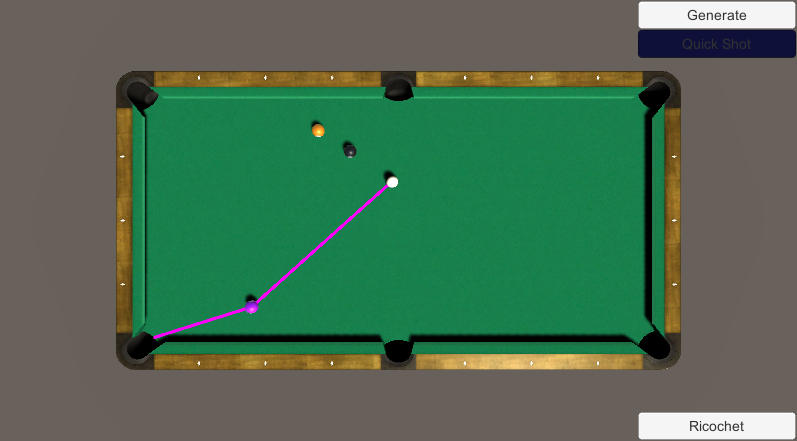
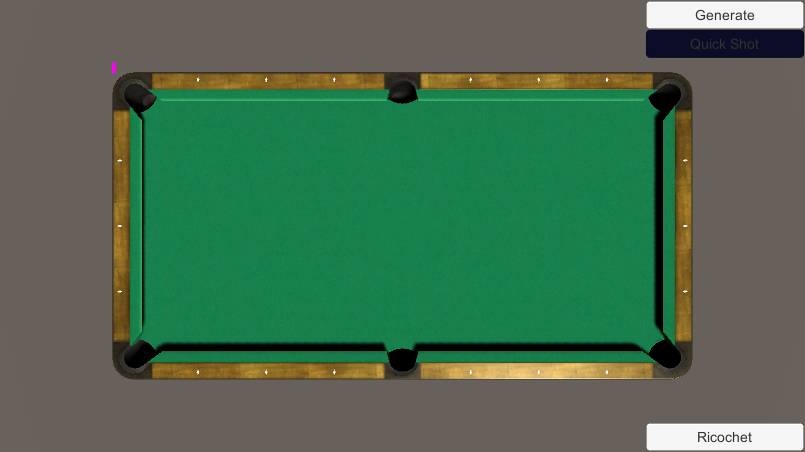
Incorporated an updated Ricochet shot
Determines if a shot is possible to make in a straight path, asks to
select something else

diff --git a/Assets/Pool Billiard Table/Scripts/Quick_Shot.cs b/Assets/Pool Billiard Table/Scripts/Quick_Shot.cs
@@ -28,6 +28,69 @@ namespace TargetPath {
             this.valid_path = false;
         }
     }
+
+    public class Shot_Tools
+    {
+        public bool Measure_Collision(Vector3 ball, Vector3 destination)
+        {
+            RaycastHit collision; 
+            Physics.Linecast(ball, destination, out collision);
+            if (collision.transform.position == destination)
+            {
+                return true;
+            }
+            else
+            {
+                return false;
+            }
+        }
+
+        public void Draw_Path(Vector3 cue, Vector3 ball, Vector3 pocket)
+        {
+            GameObject line1 = new GameObject("line");
+            line1.tag = "Solution";
+            LineRenderer shot1 = line1.AddComponent<LineRenderer>();
+            shot1.SetWidth(0.3f, 0.3f);
+
+            GameObject line2 = new GameObject("line");
+            line2.tag = "Solution";
+            LineRenderer shot2 = line2.AddComponent<LineRenderer>();
+            shot2.SetWidth(0.3f, 0.3f);
+
+            Vector3[] coord1 = new Vector3[2] { cue, ball };
+            Vector3[] coord2 = new Vector3[2] { ball, pocket };
+            shot1.SetPositions(coord1);
+            shot2.SetPositions(coord2);
+        }
+
+        public bool Calculate_Angle_toPocket(Vector3 end, Vector3 start, Vector3 cue)
+        {
+
+            Shot_Tools path = new Shot_Tools();
+            Pocket optimal_pocket = new Pocket();
+            if (path.Measure_Collision(end, start))
+            {
+                // Look into direction of cue ball to solid
+                Vector3 start_trajectory = (cue - start).normalized;
+                Vector3 final_trajectory = (end - start).normalized;
+
+                //Determine if it's possible to make the shot. If within the angle threshold, it is a possible match for a shot
+                float angle = Vector3.Angle(final_trajectory, start_trajectory);
+                if (angle > 135.0f)
+                {
+                    return true;
+                }
+                else
+                {
+                    return false;
+                    //Create some cases for the bounce shot
+                }
+            }
+            //You must go around the obstruction
+            return false;
+        }
+
+    }
 }
 
 namespace TargetPath {
@@ -38,6 +101,7 @@ namespace TargetPath {
         GameObject[] balls;
         GameObject cue;
         RaycastHit collision;
+        Shot_Tools path;
         //LinkedList<Target> options;
         double best_weight = 100;
         //LineRenderer linerenderer;
@@ -49,7 +113,7 @@ namespace TargetPath {
             balls = GameObject.FindGameObjectsWithTag("Solid");
             pockets = GameObject.FindGameObjectsWithTag("Pocket");
             best_weight = 100;
-
+            path = new Shot_Tools();
         }
 
         // Update is called once per frame
@@ -62,13 +126,12 @@ namespace TargetPath {
         {
             Start();
             Clear();
-			ScreenShot();
+            //ScreenShot();
             Target Final_shot = new Target();
             foreach (GameObject ball in balls)
             {
                 Target target_path = new Target();
-                Physics.Linecast(cue.transform.position, ball.transform.position, out collision);
-                if (collision.transform.position == ball.transform.position)
+                if (path.Measure_Collision(cue.transform.position, ball.transform.position))
                 {
                     //Direction from cue to target ball
                     Vector3 ball_cue_trajectory = (cue.transform.position - ball.transform.position).normalized;
@@ -95,20 +158,7 @@ namespace TargetPath {
                     }
                 }
             }
-            GameObject line1 = new GameObject("line");
-            line1.tag = "Solution";
-            LineRenderer shot1 = line1.AddComponent<LineRenderer>();
-            shot1.SetWidth(0.3f, 0.3f);
-
-            GameObject line2 = new GameObject("line");
-            line2.tag = "Solution";
-            LineRenderer shot2 = line2.AddComponent<LineRenderer>();
-            shot2.SetWidth(0.3f, 0.3f);
-
-            Vector3[] coord1 = new Vector3[2] { cue.transform.position, Final_shot.position };
-            Vector3[] coord2 = new Vector3[2] { Final_shot.position, Final_shot.opt_pocket.position };
-            shot1.SetPositions(coord1);
-            shot2.SetPositions(coord2);
+            path.Draw_Path(cue.transform.position, Final_shot.position, Final_shot.opt_pocket.position);
 
         }
 
@@ -117,8 +167,7 @@ namespace TargetPath {
             Pocket optimal_pocket = new Pocket();
             foreach (GameObject pocket in pockets)
             {
-                Physics.Linecast(ball.transform.position, pocket.transform.position, out collision);
-                if (collision.transform.position == pocket.transform.position)
+                if (path.Measure_Collision(ball.transform.position, pocket.transform.position))
                 {
                     // Look into direction of cue ball to solid
                     Vector3 ball_pocket_trajectory = (pocket.transform.position - ball.transform.position).normalized;
@@ -139,7 +188,37 @@ namespace TargetPath {
             }
 
             return optimal_pocket;
+        }
 
+        public void Draw_Path(Vector3 cue, Vector3 ball, Vector3 pocket)
+        {
+            GameObject line1 = new GameObject("line");
+            line1.tag = "Solution";
+            LineRenderer shot1 = line1.AddComponent<LineRenderer>();
+            shot1.SetWidth(0.3f, 0.3f);
+
+            GameObject line2 = new GameObject("line");
+            line2.tag = "Solution";
+            LineRenderer shot2 = line2.AddComponent<LineRenderer>();
+            shot2.SetWidth(0.3f, 0.3f);
+
+            Vector3[] coord1 = new Vector3[2] { cue, ball };
+            Vector3[] coord2 = new Vector3[2] { ball, pocket };
+            shot1.SetPositions(coord1);
+            shot2.SetPositions(coord2);
+        }
+
+        public bool Measure_Collision(Vector3 ball, Vector3 destination)
+        {
+            Physics.Linecast(ball, destination, out collision);
+            if (collision.transform.position == destination)
+            {
+                return true;
+            }
+            else
+            {
+                return false;
+            }
         }
 
         public void Clear()

diff --git a/Assets/Pool Billiard Table/Scripts/Ricochet.cs b/Assets/Pool Billiard Table/Scripts/Ricochet.cs
@@ -24,58 +24,95 @@ namespace TargetPath
         // Update is called once per frame
         void Update()
         {
-            if(algo_start)
-            {
-                if (Input.GetMouseButtonDown(0))
-                {
-                    RaycastHit ball_select = new RaycastHit();
-                    if (Physics.Raycast(Camera.main.ScreenPointToRay(Input.mousePosition), out ball_select))
-                    {
-                        if (ball_select.transform.gameObject.CompareTag("Cue"))
-                        {
-                            print("Now choose a pocket");
-                            algo_start = false;
-                            return;
-                        }
-                        else
-                        {
-                            print("What are you looking at?");
-                            algo_start = false;
-                        }
-                    }
-                }
-            }
 
         }
 
         public void Ricochet_Shot()
         {
             Start();
-            print("Select something");
-            StartCoroutine(Mouseclick());
-            
-
+            StartCoroutine(Select_Shot());
         }
 
-        IEnumerator Mouseclick()
+        IEnumerator Select_Shot()
         {
-            yield return new WaitUntil(() => Input.GetMouseButtonDown(0) == true);
-            RaycastHit ball_select = new RaycastHit();
-            if (Physics.Raycast(Camera.main.ScreenPointToRay(Input.mousePosition), out ball_select))
+            Shot_Tools path = new Shot_Tools();
+            bool flag = true;
+            
+            while(flag)
             {
-                if (ball_select.transform.gameObject.CompareTag("Cue"))
+                Mouse_Select ball = new Mouse_Select(this, BallSelect());
+                yield return ball.coroutine;
+                Mouse_Select pocket = new Mouse_Select(this, PocketSelect());
+                yield return pocket.coroutine;
+
+                if (path.Measure_Collision(cue.transform.position, (Vector3)ball.result) || path.Measure_Collision((Vector3)ball.result, (Vector3)pocket.result))
                 {
-                    print("You selected the cue ball");
-                    algo_start = false;
-                }
-                else
-                {
-                    print("Not a proper selection?");
-                    algo_start = false;
+                    if (path.Calculate_Angle_toPocket((Vector3)pocket.result, (Vector3)ball.result, cue.transform.position))
+                    {
+                        path.Draw_Path(cue.transform.position, (Vector3)ball.result, (Vector3)pocket.result);
+                        flag = false;
+                        Debug.Log("Take the shot!");
+                        
+                    }
+                    else{
+                        Debug.Log("This shot is not possible. Please select another ball and pocket");
+                    }
                 }
             }
+            
         }
 
+        IEnumerator PocketSelect()
+        {
+            RaycastHit pocket_select = new RaycastHit();
+            while (true)
+            {
+                print("Select a pocket");
+                yield return new WaitUntil(() => Input.GetMouseButton(0) == true);
+
+                if (Physics.Raycast(Camera.main.ScreenPointToRay(Input.mousePosition), out pocket_select))
+                {
+                    if (!pocket_select.transform.gameObject.CompareTag("Pocket"))
+                    {
+                        print("Improper Pocket seleciton. Try again");
+                        yield return new WaitUntil(() => Input.GetMouseButtonUp(0) == true);
+                        continue;
+                    }
+                    else
+                    {
+                        yield return new WaitUntil(() => Input.GetMouseButtonUp(0) == true);
+                        break;
+                    }
+                }
+            }
+            yield return (pocket_select.transform.gameObject.transform.position);
+        }
+        
+        IEnumerator BallSelect()
+        {
+            RaycastHit ball_select = new RaycastHit();
+            while (true)
+            {
+                print("Select a ball");
+                yield return new WaitUntil(() => Input.GetMouseButtonDown(0) == true);
+                
+                if (Physics.Raycast(Camera.main.ScreenPointToRay(Input.mousePosition), out ball_select))
+                {
+                    if (!ball_select.transform.gameObject.CompareTag("Solid") && !ball_select.transform.gameObject.CompareTag("Stripe"))
+                    {
+                        print("Improper Ball Selection. Try again");
+                        yield return new WaitUntil(() => Input.GetMouseButtonUp(0) == true);
+                        continue;
+                    }
+                    else
+                    {
+                        yield return new WaitUntil(() => Input.GetMouseButtonUp(0) == true);
+                        break;
+                    }
+                }
+            }
+            yield return (ball_select.transform.gameObject.transform.position);
+        }
     }
 
 }

diff --git a/Assets/Pool Billiard Table/Scripts/Mouse_Select.cs b/Assets/Pool Billiard Table/Scripts/Mouse_Select.cs
@@ -1,0 +1,31 @@
+using System.Collections;
+using System.Collections.Generic;
+using UnityEngine;
+
+namespace TargetPath
+{
+    public class Mouse_Select : MonoBehaviour
+    {
+
+        public Coroutine coroutine { get; private set; }
+        public object result;
+        private IEnumerator target;
+
+        public Mouse_Select(MonoBehaviour owner, IEnumerator target)
+        {
+            this.target = target;
+            this.coroutine = owner.StartCoroutine(Run());
+        }
+
+        private IEnumerator Run()
+        {
+            while (target.MoveNext())
+            {
+                result = target.Current;
+                yield return result;
+            }
+        }
+
+        
+    }
+}

diff --git a/Assets/Pool Billiard Table/Scripts/Bounce_Shot.cs b/Assets/Pool Billiard Table/Scripts/Bounce_Shot.cs
@@ -1,0 +1,19 @@
+using System.Collections;
+using System.Collections.Generic;
+using UnityEngine;
+
+namespace TargetPath
+{
+    public class Bounce_Shot
+    {
+        public int num_bounces;
+        GameObject cue;
+        GameObject ball;
+        public Bounce_Shot(GameObject cue, GameObject ball)
+        {
+            this.cue = cue;
+            this.ball = ball;
+        }
+    }
+
+}
